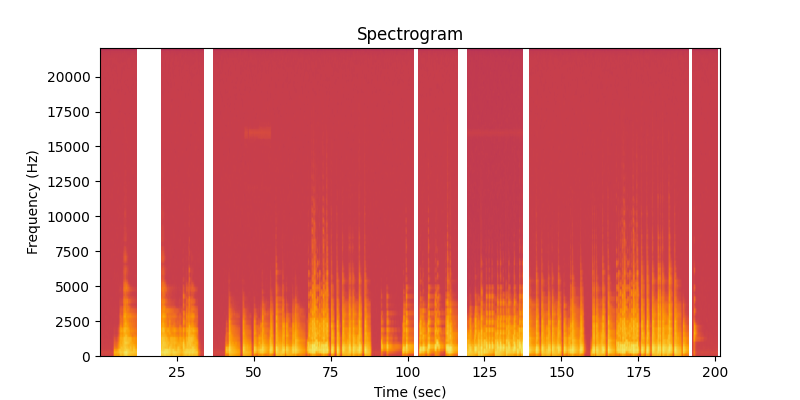
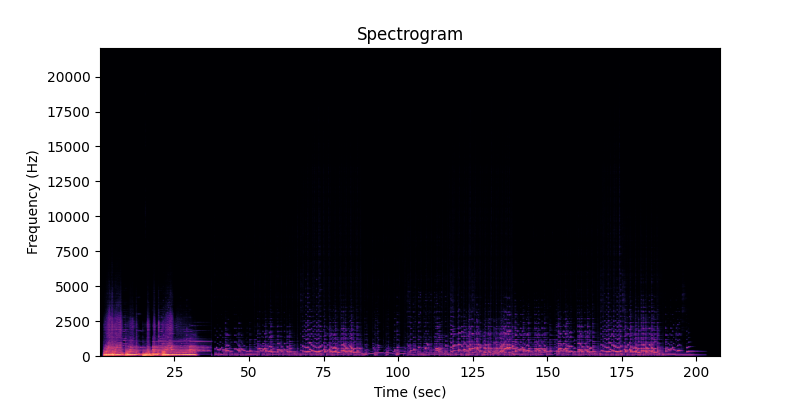
changed UI in main code

diff --git a/wav_analyzer.py b/wav_analyzer.py
@@ -1,5 +1,5 @@
+import os
 import wave
-import math
 import numpy as np
 import tkinter as tk
 from tkinter import filedialog, messagebox, ttk
@@ -11,152 +11,185 @@ from matplotlib.backends.backend_tkagg import FigureCanvasTkAgg
 from mpl_toolkits.mplot3d import Axes3D
 
 
-def dft_manual(signal):
-    """ Compute the Discrete Fourier Transform (DFT) manually. """
-    num_samples = len(signal)
-    x_result = [0] * num_samples
-    for k in range(num_samples):
-        real = 0.0
-        imaginary = 0.0
-        for n in range(num_samples):
-            angle = 2 * math.pi * k * n / num_samples
-            real += signal[n] * math.cos(angle)
-            imaginary -= signal[n] * math.sin(angle)
-        x_result[k] = complex(real, imaginary)
-    return x_result
+class WAVAnalyzer:
+    def __init__(self, root):
+        self.root = root
+        self.root.title("WAV File Analyzer")
+        self.root.geometry("600x350")  # Уменьшил высоту стартового окна
+        self.root.minsize(500, 300)  # Минимальный размер
+        self.root.resizable(True, True)  # Теперь можно растягивать окно
+
+        self.data = None
+        self.sample_rate = None
+
+        # Главное окно
+        self.main_frame = tk.Frame(root, bg="#F5F5F5")
+        self.main_frame.pack(fill="both", expand=True, padx=20, pady=20)
+
+        # Верхняя панель с кнопкой загрузки
+        self.top_frame = tk.Frame(self.main_frame, bg="#F5F5F5")
+        self.top_frame.pack(fill="x")
+
+        # Кнопка с иконкой 📂 (папка)
+        self.load_button = ttk.Button(self.top_frame, text="📂", command=self.select_file, width=3)
+        self.load_button.pack(side="left", padx=10)
+
+        # Название загруженного файла
+        self.file_label = tk.Label(self.top_frame, text="No file loaded", font=("Arial", 12), bg="#F5F5F5")
+        self.file_label.pack(side="left", padx=10)
+
+        # Информация о файле
+        self.info_label = tk.Label(self.main_frame, text="", font=("Arial", 10), bg="#F5F5F5", justify="left")
+        self.info_label.pack(fill="x", padx=10, pady=5)
+
+        # Кнопки для анализа
+        self.button_frame = tk.Frame(self.main_frame, bg="#F5F5F5")
+        self.button_frame.pack(fill="both", padx=10, pady=10)
+
+        self.buttons = {
+            "Waveform": ttk.Button(self.button_frame, text="📈 Show Waveform", command=self.show_waveform, state="disabled"),
+            "Spectrogram": ttk.Button(self.button_frame, text="🎛 Show Spectrogram", command=self.show_spectrogram, state="disabled"),
+            "DFT": ttk.Button(self.button_frame, text="📊 Show DFT Spectrum", command=self.show_dft, state="disabled"),
+            "3D Spectrogram": ttk.Button(self.button_frame, text="🌍 Show 3D Spectrogram", command=self.show_3d_spectrogram, state="disabled"),
+        }
+
+        for button in self.buttons.values():
+            button.pack(pady=5, fill="x")
 
 
-def open_waveform(data, duration):
-    """ Open a new window for the waveform plot. """
-    fig, ax = plt.subplots(figsize=(8, 4))
-    ax.plot(np.linspace(0, duration, num=len(data)), data, color='blue')
-    ax.set_title("Waveform")
-    ax.set_xlabel("Time (sec)")
-    ax.set_ylabel("Amplitude")
-    ax.grid()
-    plt.show()
 
+    def select_file(self):
+        """ Opens a file dialog and loads WAV file. """
+        file_path = filedialog.askopenfilename(filetypes=[("WAV Files", "*.wav")])
+        if file_path:
+            self.analyze_wav(file_path)
 
-def open_spectrogram(data, sample_rate):
-    """ Open a new window for the spectrogram plot. """
-    fig, ax = plt.subplots(figsize=(8, 4))
-    spec, freq, t, im = ax.specgram(data.flatten(), Fs=sample_rate, cmap='inferno')
-    ax.set_title("Spectrogram")
-    ax.set_xlabel("Time (sec)")
-    ax.set_ylabel("Frequency (Hz)")
-    plt.show()
-
-
-def open_dft_spectrum(data, sample_rate):
-    """ Open a new window for the DFT spectrum plot. """
-    num_samples = 1024
-    signal = data[:num_samples]
-    spectrum = dft_manual(signal)
-    frequencies = [(sample_rate * k) / num_samples for k in range(num_samples)]
-
-    fig, ax = plt.subplots(figsize=(8, 4))
-    ax.plot(frequencies[:num_samples // 2], [abs(x) for x in spectrum[:num_samples // 2]], color='purple')
-    ax.set_title("DFT Spectrum")
-    ax.set_xlabel("Frequency (Hz)")
-    ax.set_ylabel("Amplitude")
-    ax.grid()
-    plt.show()
-
-
-def open_3d_spectrogram(data, sample_rate):
-    """ Open a new window for the 3D spectrogram plot. """
-    num_samples = 1024
-    signal = data[:num_samples]
-
-    f, t, Sxx = spectrogram(signal, sample_rate)
-    T, F = np.meshgrid(t, f)
-
-    fig = plt.figure(figsize=(8, 6))
-    ax = fig.add_subplot(111, projection='3d')
-    ax.plot_surface(F, T, 10 * np.log10(Sxx + 1e-10), cmap="jet")
-    ax.set_xlabel("Frequency (Hz)")
-    ax.set_ylabel("Time (sec)")
-    ax.set_zlabel("Magnitude (dB)")
-    ax.set_title("3D Spectrogram")
-    plt.show()
-
-
-def analyze_wav(file_path, root):
-    """ Reads the WAV file and sets up buttons to open graphs. """
-    try:
+    def get_wav_bit_depth(self, file_path):
+        """Определяет битность WAV файла."""
         with wave.open(file_path, 'rb') as wav_file:
-            num_channels = wav_file.getnchannels()
-            sample_width = wav_file.getsampwidth()
-            sample_rate = wav_file.getframerate()
-            num_frames = wav_file.getnframes()
-            duration = num_frames / sample_rate
-            bit_depth = sample_width * 8
+            sample_width = wav_file.getsampwidth()  # Получаем ширину семпла в байтах
+            bit_depth = sample_width * 8  # Конвертируем в биты (8 бит на байт)
+            return bit_depth
 
-        data, _ = sf.read(file_path, always_2d=True)
+    def analyze_wav(self, file_path):
+        """ Reads the WAV file and updates the UI. """
+        try:
+            file_name = os.path.basename(file_path)
 
-        if data.shape[1] > 1:
-            data = data.mean(axis=1)
-
-        min_val, max_val = np.min(data), np.max(data)
-        mean_val = np.mean(data)
-        rms = np.sqrt(np.mean(data ** 2))
-
-        # Clear previous UI elements
-        for widget in root.winfo_children():
-            if isinstance(widget, tk.Label) or isinstance(widget, ttk.Button):
-                widget.destroy()
-
-        info_text = f"📂 File: {file_path}\n" \
-                    f"🎵 Channels: {num_channels}\n" \
-                    f"📊 Sample rate: {sample_rate} Hz\n" \
-                    f"📝 Bit depth: {bit_depth} bits\n" \
-                    f"⏳ Duration: {duration:.2f} sec\n" \
-                    f"🔎 Min: {min_val}, Max: {max_val}\n" \
-                    f"📉 Mean: {mean_val:.2f}, RMS: {rms:.2f}\n"
-        label = tk.Label(root, text=info_text, justify="left", font=("Arial", 10), bg="#F5F5F5", padx=10, pady=10)
-        label.pack(fill="x", padx=20, pady=10)
-
-        # Frame for buttons
-        button_frame = tk.Frame(root, bg="#F5F5F5")
-        button_frame.pack(fill="both", padx=20, pady=10)
-
-        # Define a ttk style
-        style = ttk.Style()
-        style.configure("TButton", font=("Arial", 10), padding=5)
-
-        # Buttons with minimal UI style
-        ttk.Button(button_frame, text="📈 Show Waveform", command=lambda: open_waveform(data, duration),
-                   style="TButton").pack(pady=5, fill="x")
-        ttk.Button(button_frame, text="🎛 Show Spectrogram", command=lambda: open_spectrogram(data, sample_rate),
-                   style="TButton").pack(pady=5, fill="x")
-        ttk.Button(button_frame, text="📊 Show DFT Spectrum", command=lambda: open_dft_spectrum(data, sample_rate),
-                   style="TButton").pack(pady=5, fill="x")
-        ttk.Button(button_frame, text="🌍 Show 3D Spectrogram", command=lambda: open_3d_spectrogram(data, sample_rate),
-                   style="TButton").pack(pady=5, fill="x")
-
-    except Exception as e:
-        messagebox.showerror("Error", f"Failed to process the file!\n{str(e)}")
+            # Извлекаем битность WAV-файла
+            bit_depth = bit_depth = self.get_wav_bit_depth(file_path)
 
 
-def select_file(root):
-    """ Opens a file dialog and triggers file analysis. """
-    file_path = filedialog.askopenfilename(filetypes=[("WAV Files", "*.wav")])
-    if file_path:
-        analyze_wav(file_path, root)
+            # Load WAV file
+            try:
+                sample_rate, data = wavfile.read(file_path)
+                data = data.astype(np.float32) / np.max(np.abs(data))
+                print("Loaded using scipy.io.wavfile")
+            except Exception as e:
+                print("Failed to load with scipy:", e)
+                data, sample_rate = sf.read(file_path, always_2d=True)
+                print("Loaded using soundfile.read")
+
+            if len(data.shape) > 1 and data.shape[1] > 1:
+                data = data.mean(axis=1)  # Convert to mono
+
+            self.data = data
+            self.sample_rate = sample_rate
+
+            min_val, max_val = np.min(data), np.max(data)
+            mean_val = np.mean(data)
+            rms = np.sqrt(np.mean(data ** 2))
+
+            # Обновляем интерфейс
+            self.file_label.config(text=f"📂 {file_name}")
+            self.info_label.config(
+                text=f"🎵 Sample rate: {sample_rate} Hz\n"
+                     f"📝 Bit depth: {bit_depth}-bit\n"  # Вернули битность
+                     f"⏳ Duration: {len(data) / sample_rate:.2f} sec\n"
+                     f"🔎 Min: {min_val:.4f}, Max: {max_val:.4f}\n"
+                     f"📉 Mean: {mean_val:.4f}, RMS: {rms:.4f}"
+            )
+
+            # Включаем кнопки
+            for button in self.buttons.values():
+                button.config(state="normal")
+
+        except Exception as e:
+            messagebox.showerror("Error", f"Failed to process the file!\n{str(e)}")
+
+    def check_data(self):
+        """ Проверяет, загружены ли данные перед построением графиков. """
+        if self.data is None:
+            messagebox.showerror("Error", "Please load a WAV file first!")
+            return False
+        return True
+
+    def show_waveform(self):
+        if not self.check_data():
+            return
+        fig, ax = plt.subplots(figsize=(8, 4))
+        ax.plot(np.linspace(0, len(self.data) / self.sample_rate, num=len(self.data)), self.data, color='blue')
+        ax.set_title("Waveform")
+        ax.set_xlabel("Time (sec)")
+        ax.set_ylabel("Amplitude")
+        ax.grid()
+        plt.show()
+
+    def show_spectrogram(self):
+        if not self.check_data():
+            return
+
+        fig, ax = plt.subplots(figsize=(8, 4))
+
+        # Вычисляем спектрограмму
+        Pxx, freqs, bins, im = ax.specgram(self.data, Fs=self.sample_rate, cmap='inferno', NFFT=2048, noverlap=1024)
+
+        # Добавляем маленькое число, чтобы избежать log10(0)
+        Pxx = np.log10(Pxx + 1e-10)
+
+        # Нормализация, чтобы не было слишком темных участков
+        Pxx = (Pxx - np.min(Pxx)) / (np.max(Pxx) - np.min(Pxx))  # Приводим значения к диапазону [0, 1]
+
+        # Отображаем спектрограмму с нормализованными значениями
+        ax.imshow(Pxx, aspect='auto', extent=[bins.min(), bins.max(), freqs.min(), freqs.max()], origin='lower',
+                  cmap='magma')
+
+        ax.set_title("Spectrogram")
+        ax.set_xlabel("Time (sec)")
+        ax.set_ylabel("Frequency (Hz)")
+        plt.show()
+
+    def show_dft(self):
+        if not self.check_data():
+            return
+        spectrum = np.fft.fft(self.data)
+        frequencies = np.fft.fftfreq(len(self.data), d=1 / self.sample_rate)
+        fig, ax = plt.subplots(figsize=(8, 4))
+        ax.plot(frequencies[:len(frequencies) // 2], np.abs(spectrum[:len(frequencies) // 2]), color='purple')
+        ax.set_title("DFT Spectrum")
+        ax.set_xlabel("Frequency (Hz)")
+        ax.set_ylabel("Amplitude")
+        ax.grid()
+        plt.show()
+
+    def show_3d_spectrogram(self):
+        if not self.check_data():
+            return
+        nperseg = min(2048, len(self.data) // 10)
+        f, t, Sxx = spectrogram(self.data, self.sample_rate, nperseg=nperseg)
+        T, F = np.meshgrid(t, f)
+
+        fig = plt.figure(figsize=(8, 6))
+        ax = fig.add_subplot(111, projection='3d')
+        ax.plot_surface(T, F, 10 * np.log10(Sxx + 1e-10), cmap="jet")
+        ax.set_xlabel("Time (sec)")
+        ax.set_ylabel("Frequency (Hz)")
+        ax.set_zlabel("Magnitude (dB)")
+        ax.set_title("3D Spectrogram")
+        plt.show()
 
 
-# Launch GUI
+# Запуск GUI
 root = tk.Tk()
-root.title("WAV File Analyzer")
-root.geometry("500x400")  # Increased starting size
-root.minsize(500, 400)
-root.configure(bg="#F5F5F5")  # Light gray background for modern look
-
-# Define a ttk style for the main button
-style = ttk.Style()
-style.configure("TButton", font=("Arial", 12), padding=5)
-
-btn = ttk.Button(root, text="📂 Select WAV File", command=lambda: select_file(root), style="TButton")
-btn.pack(pady=20, padx=20)
-
+app = WAVAnalyzer(root)
 root.mainloop()
